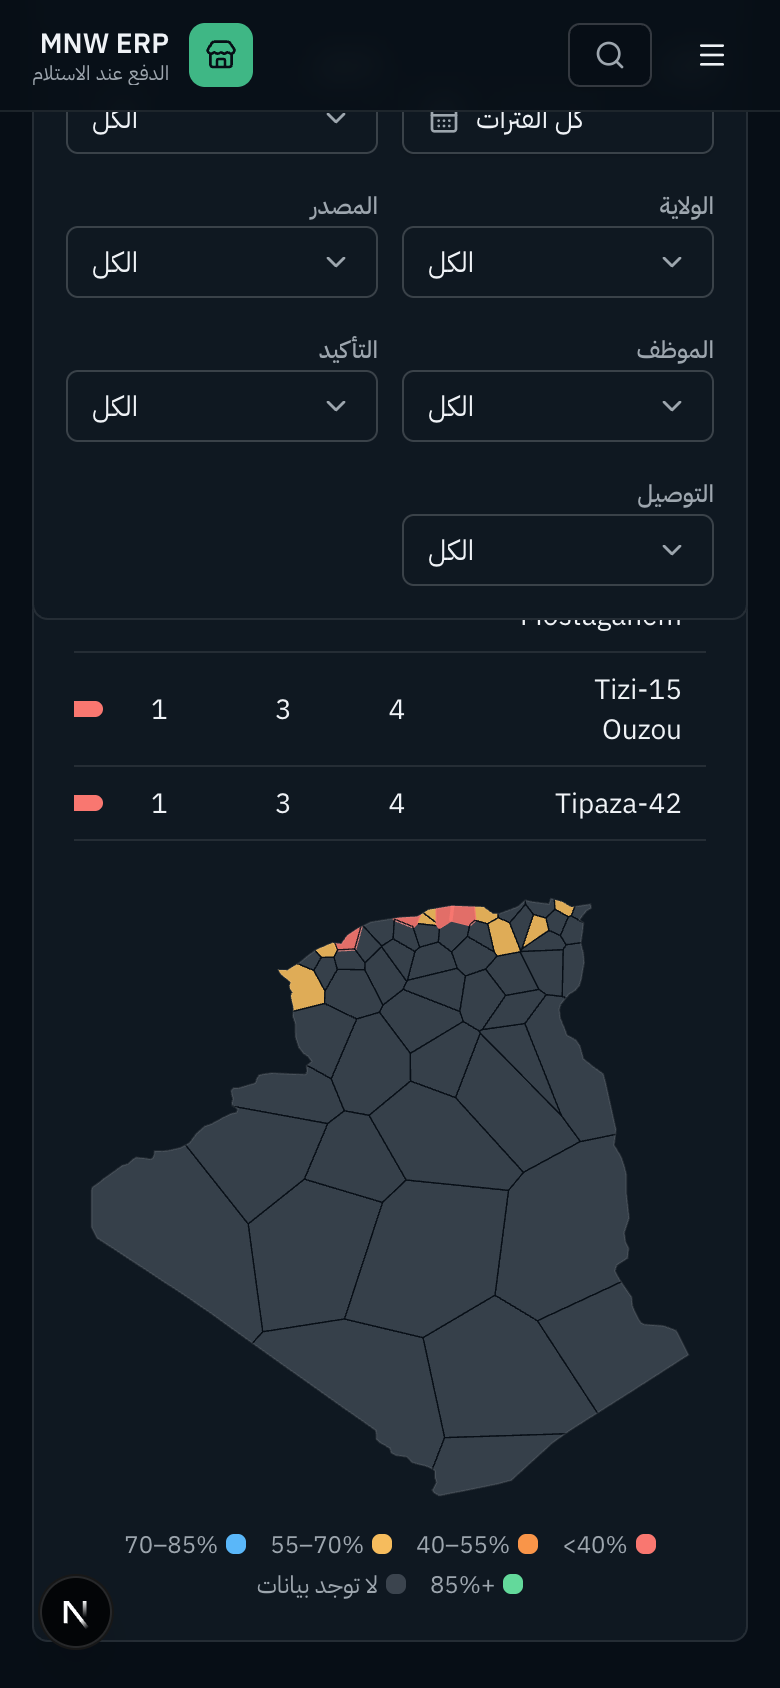
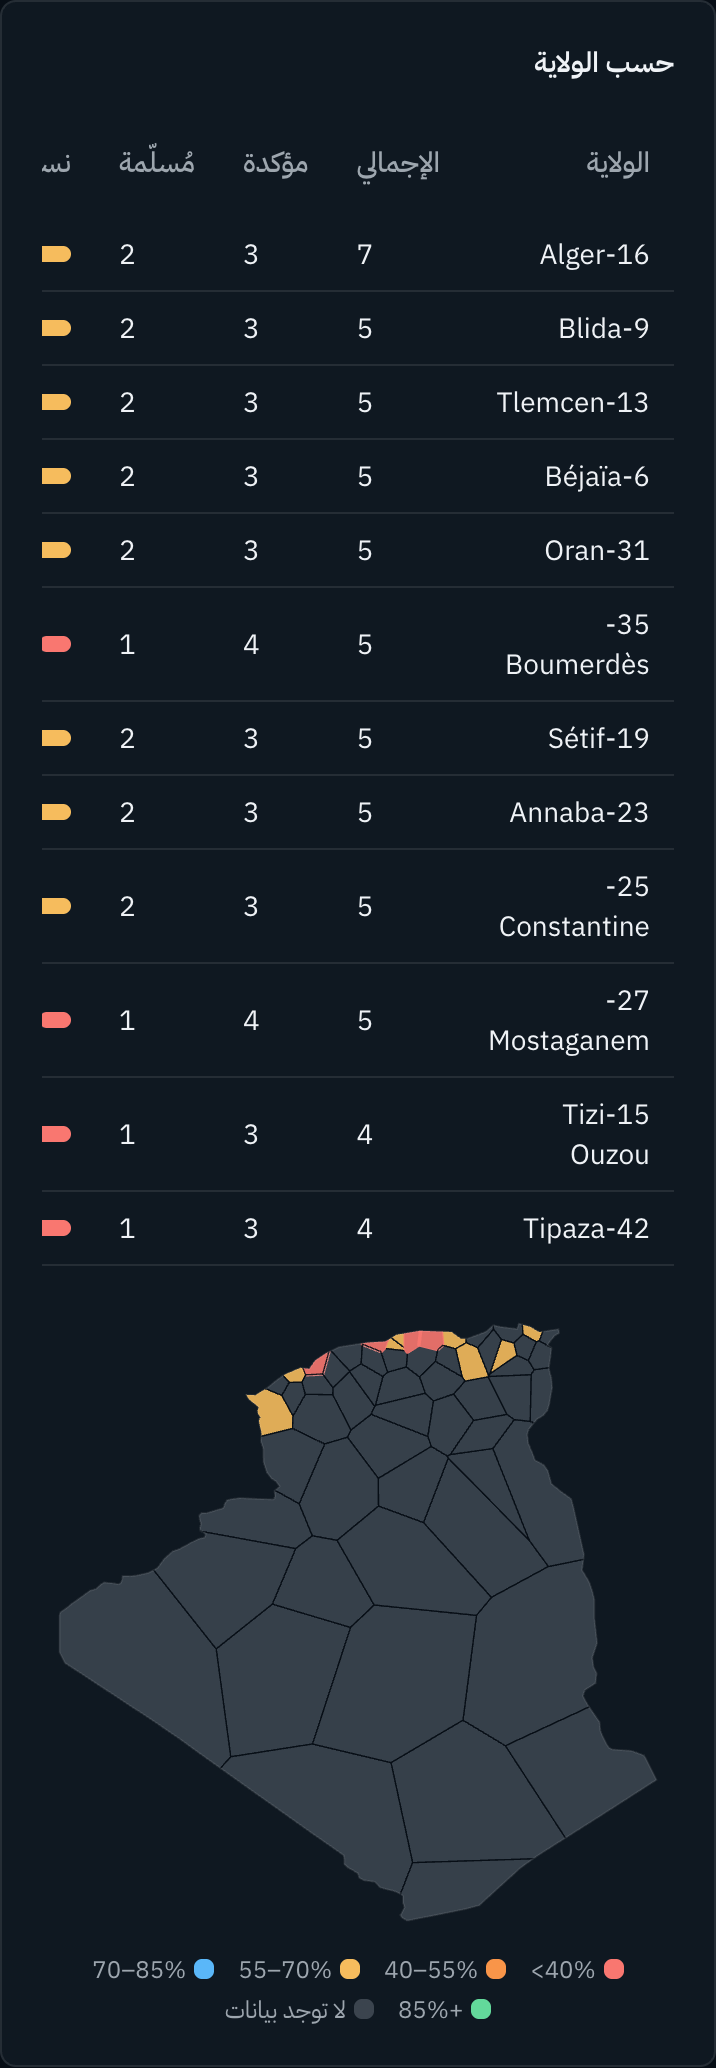
CARRIER-0-F: retake map screenshots (card framed, AR+EN, light+dark, 390+1280)

diff --git a/PROGRESS.md b/PROGRESS.md
@@ -174,4 +174,4 @@ Bottom/top edge fade on the sidebar list (token colour, click-through, ResizeObs
 
 ## CARRIER-0-F — Arabic map legend at 390 px
 - Done: legend verified correct in AR light + dark at a true 390 px (chrome-devtools emulate); stale PNG replaced, map-dark-ar-390.png added; map tooltip uses dashboard.wilaya.noData (new noDataLabel prop); wilaya code in table label wrapped in bdi dir=ltr; source-level bdi test added (no component test setup).
-- Screenshots: AR light + dark at 390 px viewed; EN and desktop not retaken.
+- Screenshots (review-1 FIX, chrome-devtools, filters/dev badge removed, all viewed): map-{light,dark}-{ar,en}-390.png are element shots of the card; map-{light,dark}-{ar,en}-1280.png are viewport shots framing the whole card. Seen, not fixed (out of scope): hyphen between wilaya code and name wraps/leads in AR 390 (review #3), table clips its last column at 390, legend wraps 4+2 (review #4).
